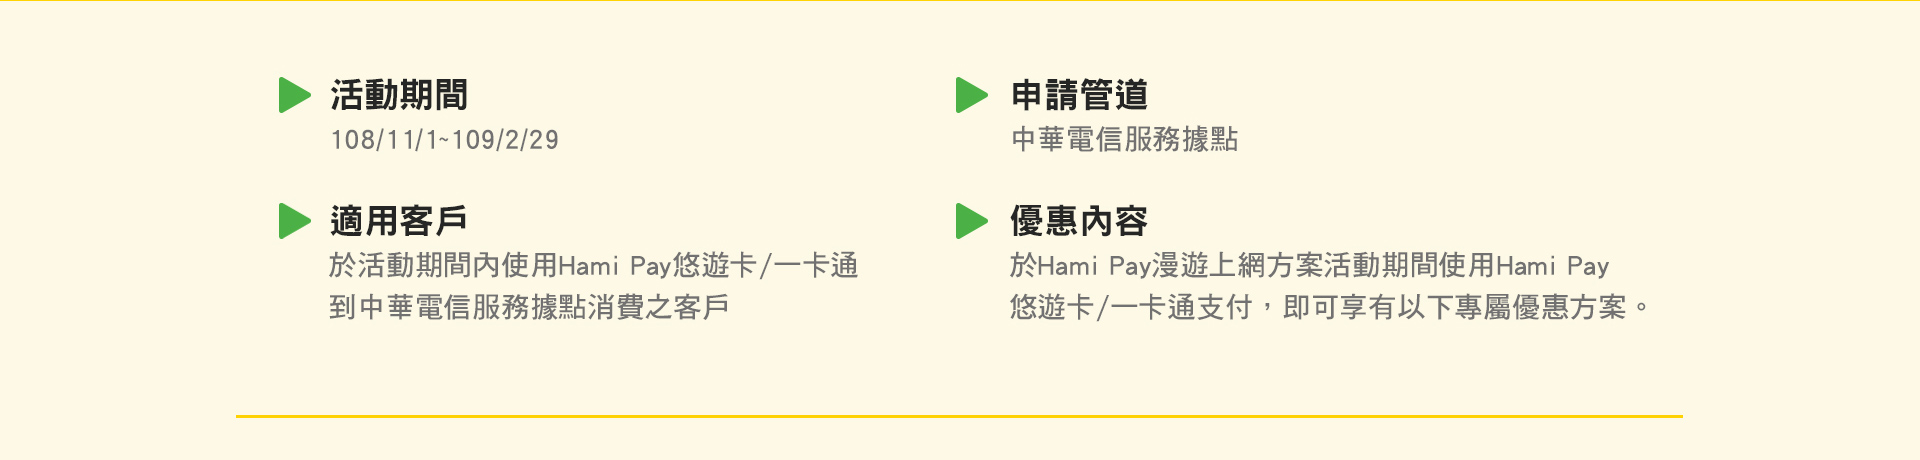
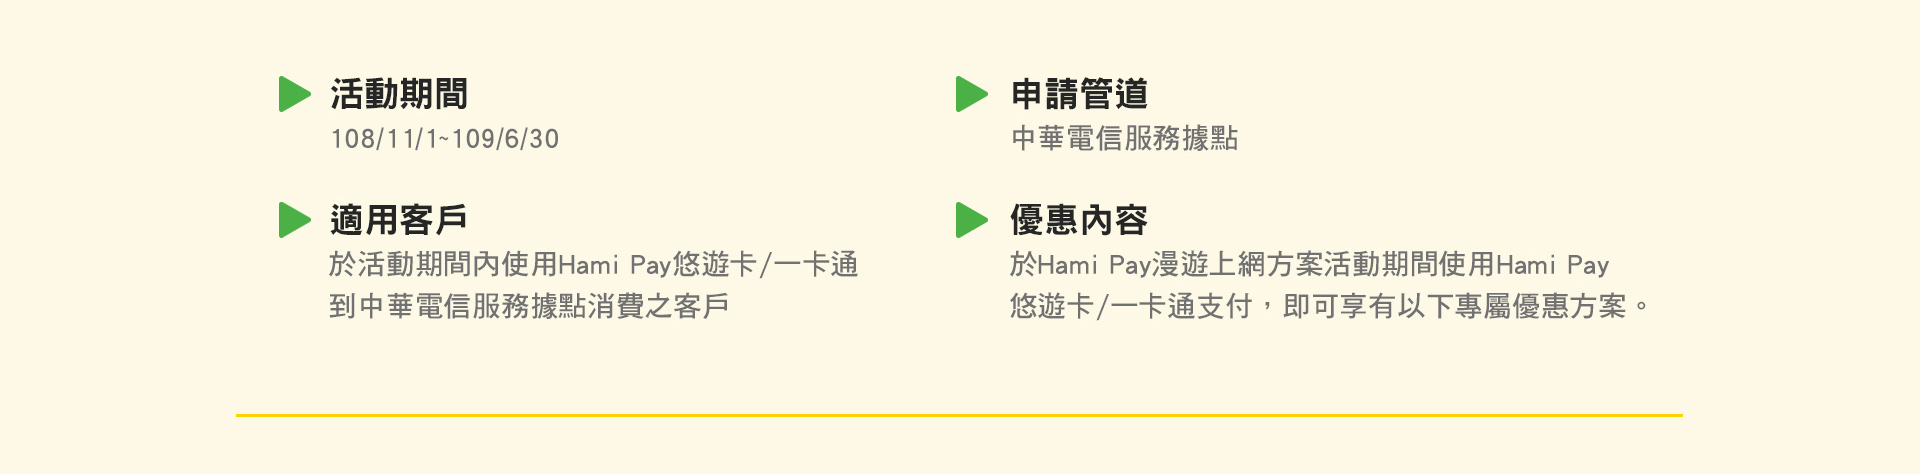
國際漫遊
主頁面選單修改
大4G漫遊活動日期更新
HamiPay 活動日期更新

diff --git a/demo/international/roamingHamiPay/index.html b/demo/international/roamingHamiPay/index.html
@@ -255,11 +255,14 @@ height="0" width="0" style="display:none;visibility:hidden"></iframe></noscript>
     <section class="header-spacer">for space in mobile</section>
     <div id="wrapper">
     	<div class="KV">
-    		<img src="images/KV.jpg" alt="">
+    		<img class="pc" src="images/KV.jpg" alt="">
+    		<img class="m" src="images/KV_m.jpg" alt="">
     	</div>
     	<div class="content_page">
-    		<img src="images/intro.jpg">
-    		<img src="images/table.jpg" usemap="#image-map">
+    		<img class="pc" src="images/intro.jpg">
+    		<img class="m" src="images/intro_m.jpg">
+    		<img class="pc" src="images/table.jpg" >
+    		<img class="m" src="images/table_m.jpg" >
     		<ul>
     			<!-- <li><a onclick="gtag('event', 'hk-1g', {'event_category': 'Hami_immediately', 'event_label': 'Hamipay'});" href="https://eshop.cht.com.tw/RoamingWeb/Personal/Cerb/PickPath?flowID=roaming">立即申辦</a></li>-->
     			<li><a target="_blank" onclick="gtag('event', '點擊', {'event_category': 'Hami Pay子頁', 'event_label': 'Hami Pay子頁_了解更多方案'});" href="https://www.cht.com.tw/home/campaign/roaming/index.html">了解其他漫遊方案</a></li>

diff --git a/demo/international/roaming/index.html b/demo/international/roaming/index.html
@@ -4837,10 +4837,10 @@
                             <li>
                                 <a href="https://m.emome.net/roamingIn.do?id=166a5591bef0000075c4699cc84144a5" onclick="gtag('event', '點擊', {'event_category': 'menu_其他方案', 'event_label': 'menu_其他方案_台商方案'});">台商方案</a>
                             </li>
-                            
+                            <!--
                             <li><a href="https://www.cht.com.tw/home/Campaign/roaming/holidaygo.html"
                                     onclick="gtag('event', '點擊', {'event_category': 'menu_其他方案', 'event_label': 'menu_其他方案_新春方案'});">新春方案</a>
-                            </li>
+                            </li>-->
                         </ul>
                     </li>
                     <li>
